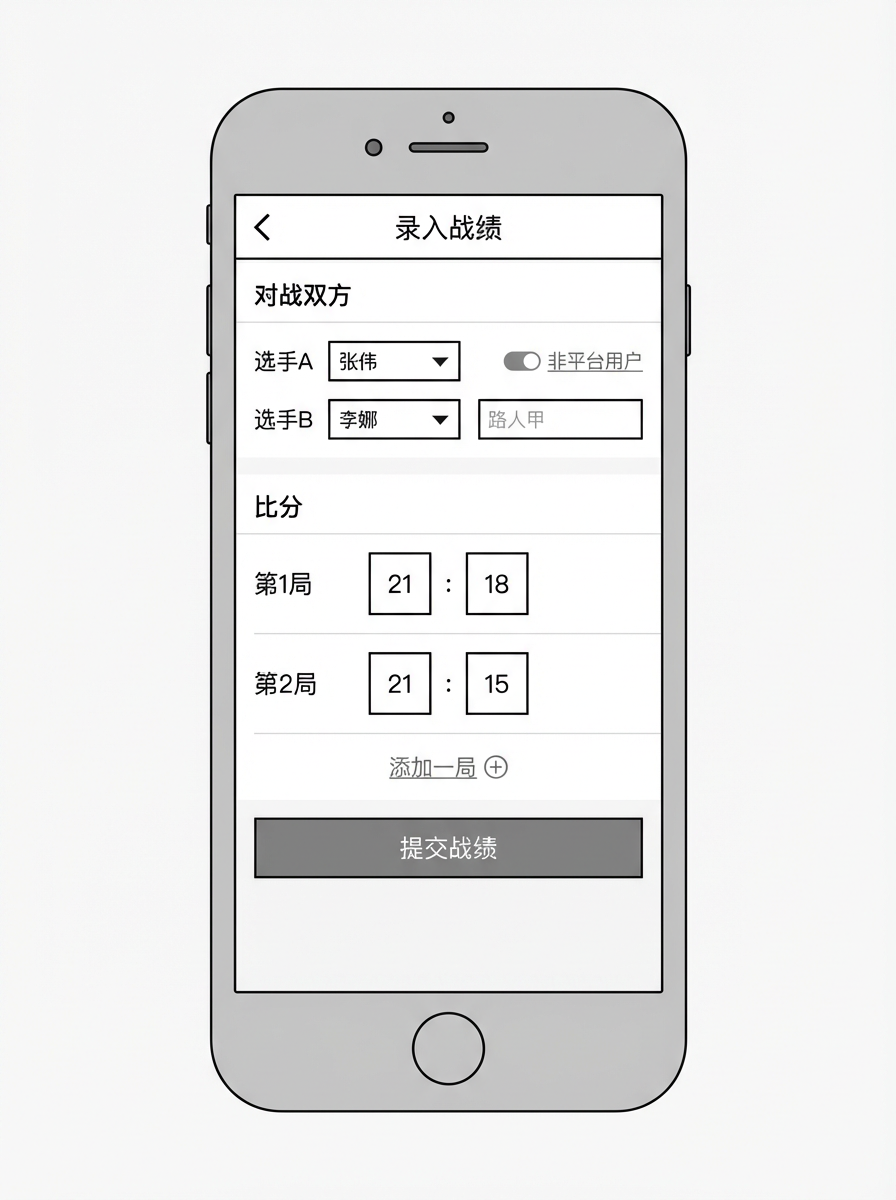
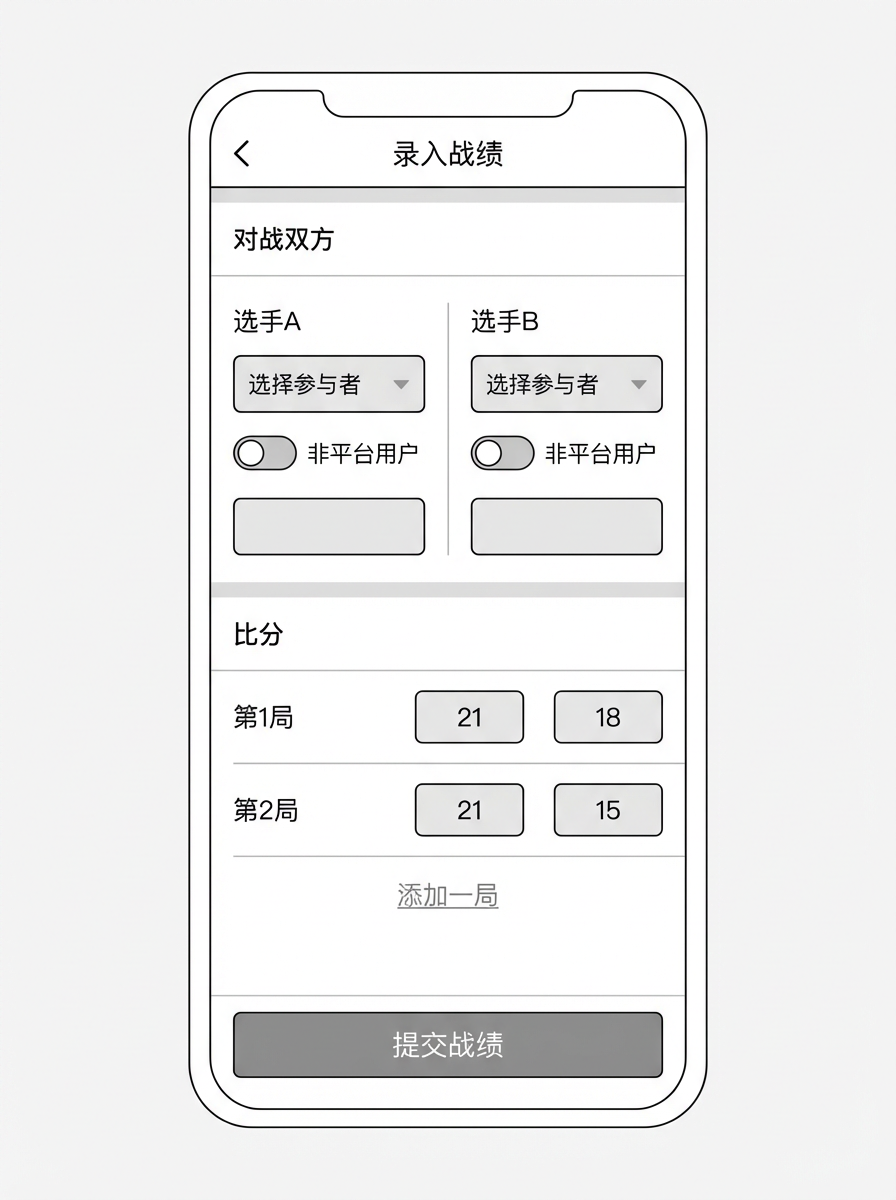
修正战绩录入页：双方选手输入方式统一为对称设计
选手A和选手B都采用相同的输入方式：默认从参与者下拉选择，可切换"非平台用户"开关改为输入昵称。

Changed region(s): [[0.1875, 0.0617, 0.8125, 0.9558]]

diff --git a/docs/prd.md b/docs/prd.md
@@ -464,7 +464,7 @@
 | 团课详情页 | 课程信息、已报名人数 | 报名 | 教练主页课程列表 |
 | 个人主页/我的 | 个人信息、战绩汇总、我的活动、我的课程 | 编辑资料、查看战绩、管理课程（教练） | 底部导航"我的" |
 | 通知列表 | 通知消息列表 | 标记已读、查看详情 | 导航栏通知图标 |
-| 战绩录入页 | 对战双方选择、比分输入 | 选择选手、输入比分、提交 | 活动详情页"录入战绩" |
+| 战绩录入页 | 对战双方选择（双方输入方式一致：默认从参与者下拉选择，可切换"非平台用户"开关改为输入昵称）、比分输入 | 选择选手、输入比分、提交 | 活动详情页"录入战绩" |
 | 注册/登录页 | 注册表单、登录表单 | 注册（含教练勾选）、登录 | 未登录时首次进入 |
 
 ### 5.2 操作路径
